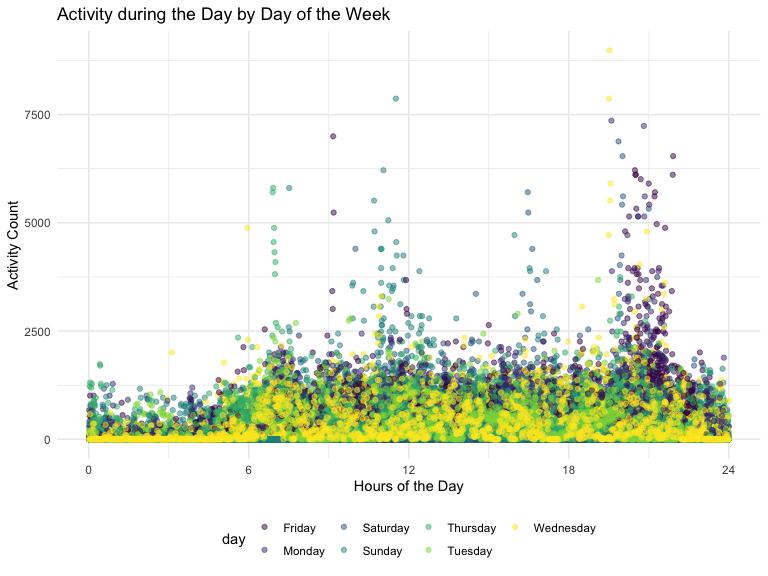
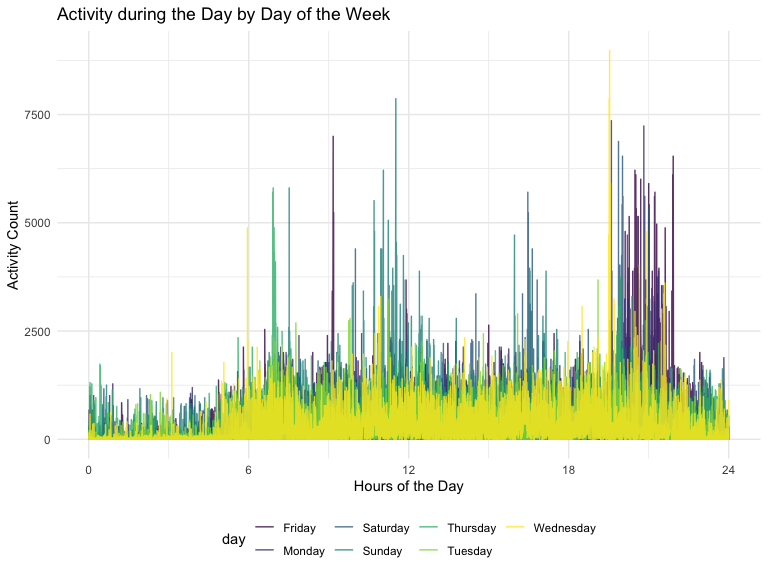
modifications to graph from problem 2

diff --git a/p8105_hw3_ltc2121.md b/p8105_hw3_ltc2121.md
@@ -173,7 +173,7 @@ activity_df %>%
 
 ``` r
 ######## arrange(desc(total_activity)) %>% ######## if using long data #### if not REMOVE !!
-# 
+#   geom_point( alpha = .5)
 ```
 
 The table above shows the total activity count for each day of the week.
@@ -184,7 +184,7 @@ Friday’s seem to have higher activity counts.
 ``` r
 activity_df %>% 
   ggplot(aes( x = minute, y = activity_count, color = day)) + 
-  geom_point( alpha = .5) + 
+ geom_line(size = .5, alpha = 0.8) +
   labs(
     title = "Activity during the Day by Day of the Week",
     x = "Hours of the Day",
@@ -262,7 +262,7 @@ ny_noaa %>%
   filter(month == c(1, 7)) %>% 
   group_by(year, month, id) %>% 
   summarise(mean_tmax = mean(tmax, na.rm = TRUE)) %>% 
-  ggplot(aes(x = year, y = mean_tmax, color = id)) +
+  ggplot(aes(x = year, y = mean_tmax, group = id, color = id)) +
     geom_line(size = 0.1)  +
   facet_grid(.~month, labeller = as_labeller(month_names)) +
   theme(axis.text.x = element_text(angle = 60, hjust = 1), 
@@ -286,3 +286,11 @@ maximum temperature for the month of January compared to the month of
 July. There is a notable outlier in July that shows a drop in the
 average roughly around 1988. There is a peak outlier in January that
 shows a spike in the average around 2004.
+
+``` r
+ny_noaa %>% 
+  ggplot(aes(x = tmin, y = tmax, group = id)) + 
+  geom_point()
+```
+
+<img src="p8105_hw3_ltc2121_files/figure-gfm/unnamed-chunk-13-1.png" width="90%" />
